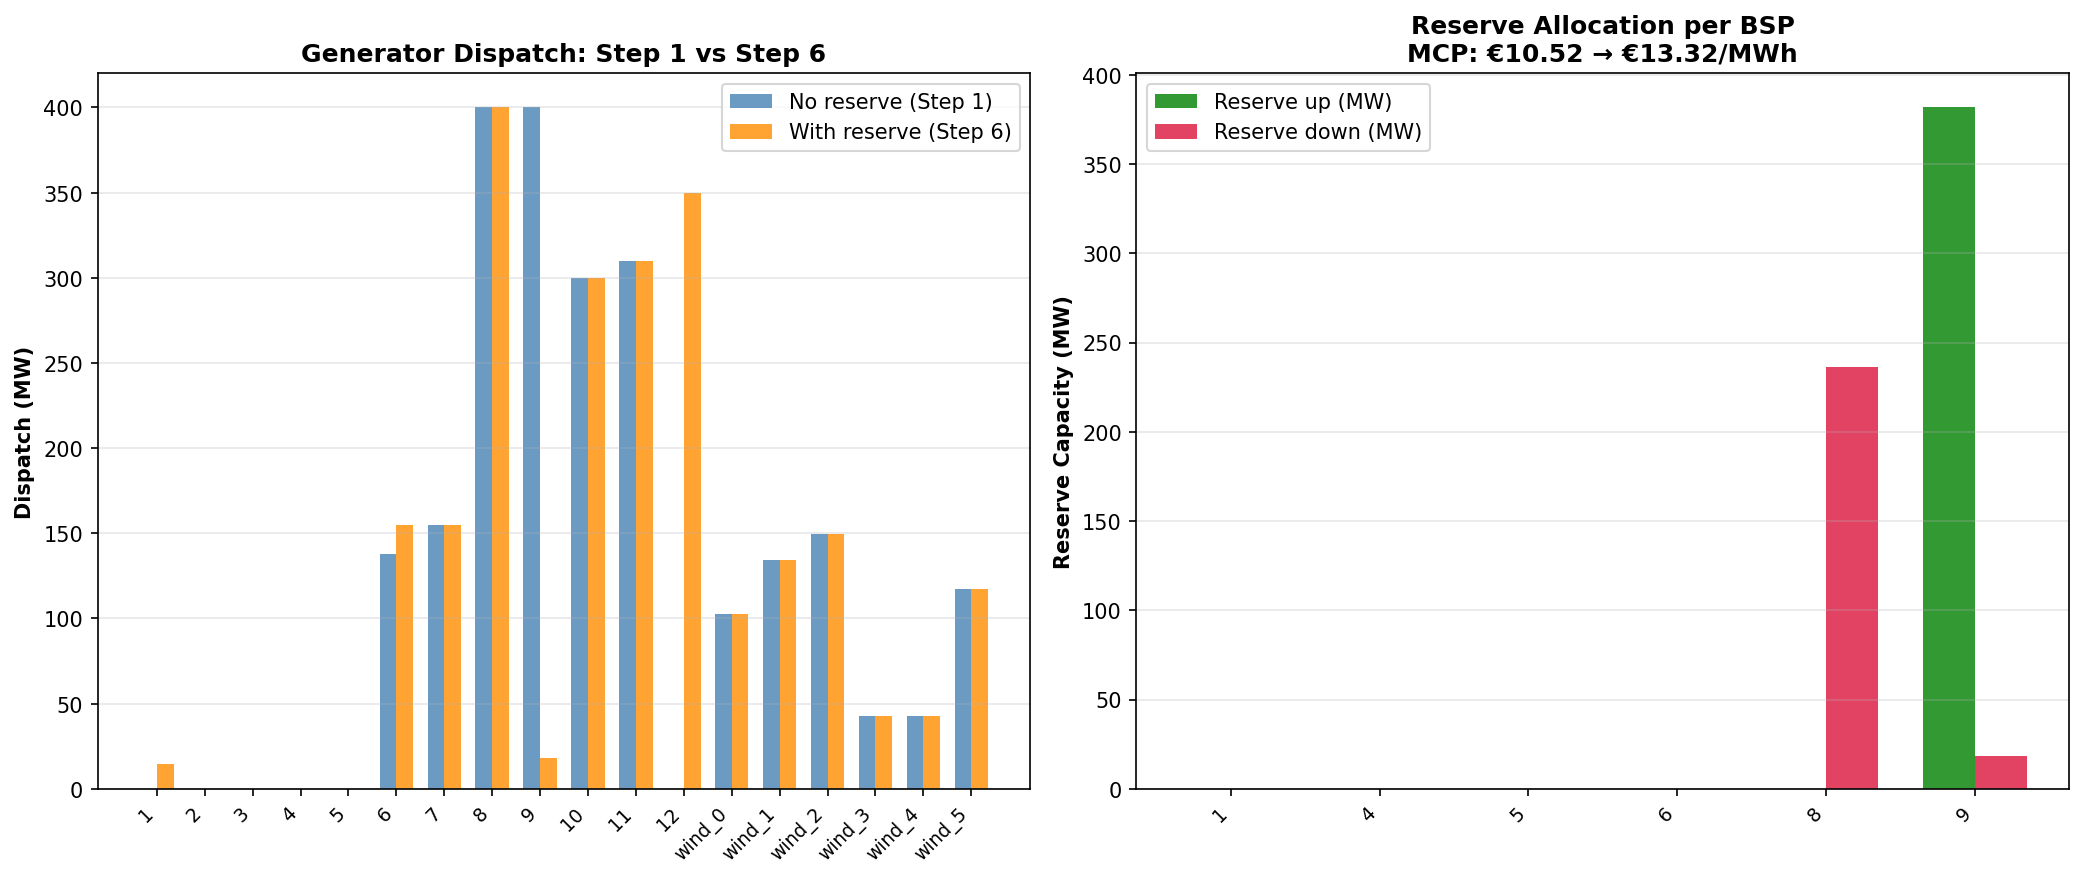
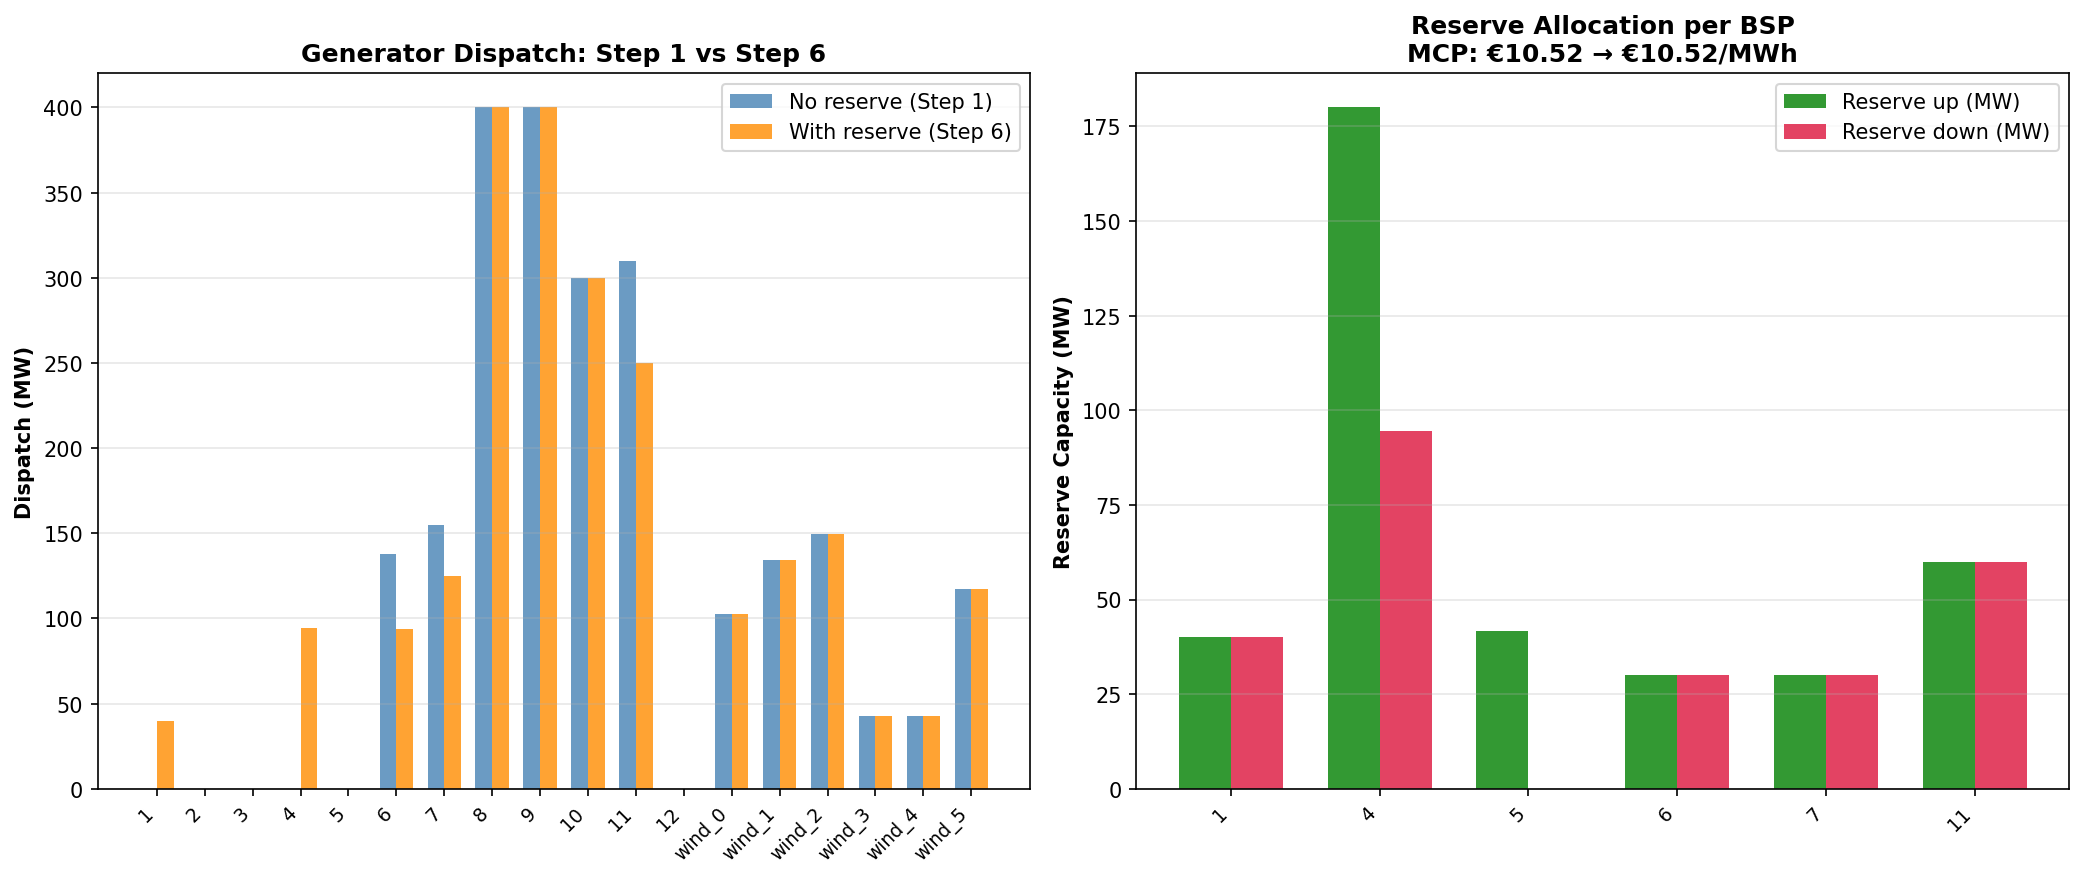
step 6 updated with changed list of bsp providers

diff --git a/Assignment_step6.py b/Assignment_step6.py
@@ -97,7 +97,8 @@ class LP_OptimizationProblem():
 # Import data from case study
 date = '2019-08-31' # Choose data for wind turbine generation
 
-conventional_generators = pd.read_csv('GeneratorsData.csv', header=None, names=['id','bus','capacity','cost']) # conventional generators data
+conventional_generators = pd.read_csv('GeneratorsData.csv', header=None,
+                                      names=['id','bus','capacity','cost','r_plus','r_minus'])
 
 # Creating the wind capacity matrix for 6 wind generators and 24 hours
 wind_capacity = np.zeros((6, 24)) # placeholder for wind generator data, to be filled with actual data from CSV files for hourly optimization
@@ -230,12 +231,12 @@ input_data = {
             } for g in BSP},
         },
 
-        constraints_rhs = {
+       constraints_rhs = {
             'upward reserve requirement':   upward_reserve_req,
             'downward reserve requirement': downward_reserve_req,
-            **{f'reserve up capacity {g}':    bsp_data['capacity'][g] for g in BSP},
-            **{f'reserve down capacity {g}':  bsp_data['capacity'][g] for g in BSP},
-            **{f'reserve joint capacity {g}': bsp_data['capacity'][g] for g in BSP},
+            **{f'reserve up capacity {g}':    bsp_data['r_plus'][g]   for g in BSP},  # ← R_i^+
+            **{f'reserve down capacity {g}':  bsp_data['r_minus'][g]  for g in BSP},  # ← R_i^-
+            **{f'reserve joint capacity {g}': bsp_data['capacity'][g] for g in BSP},  # P_max invariato
         },
 
         constraints_sense = {
